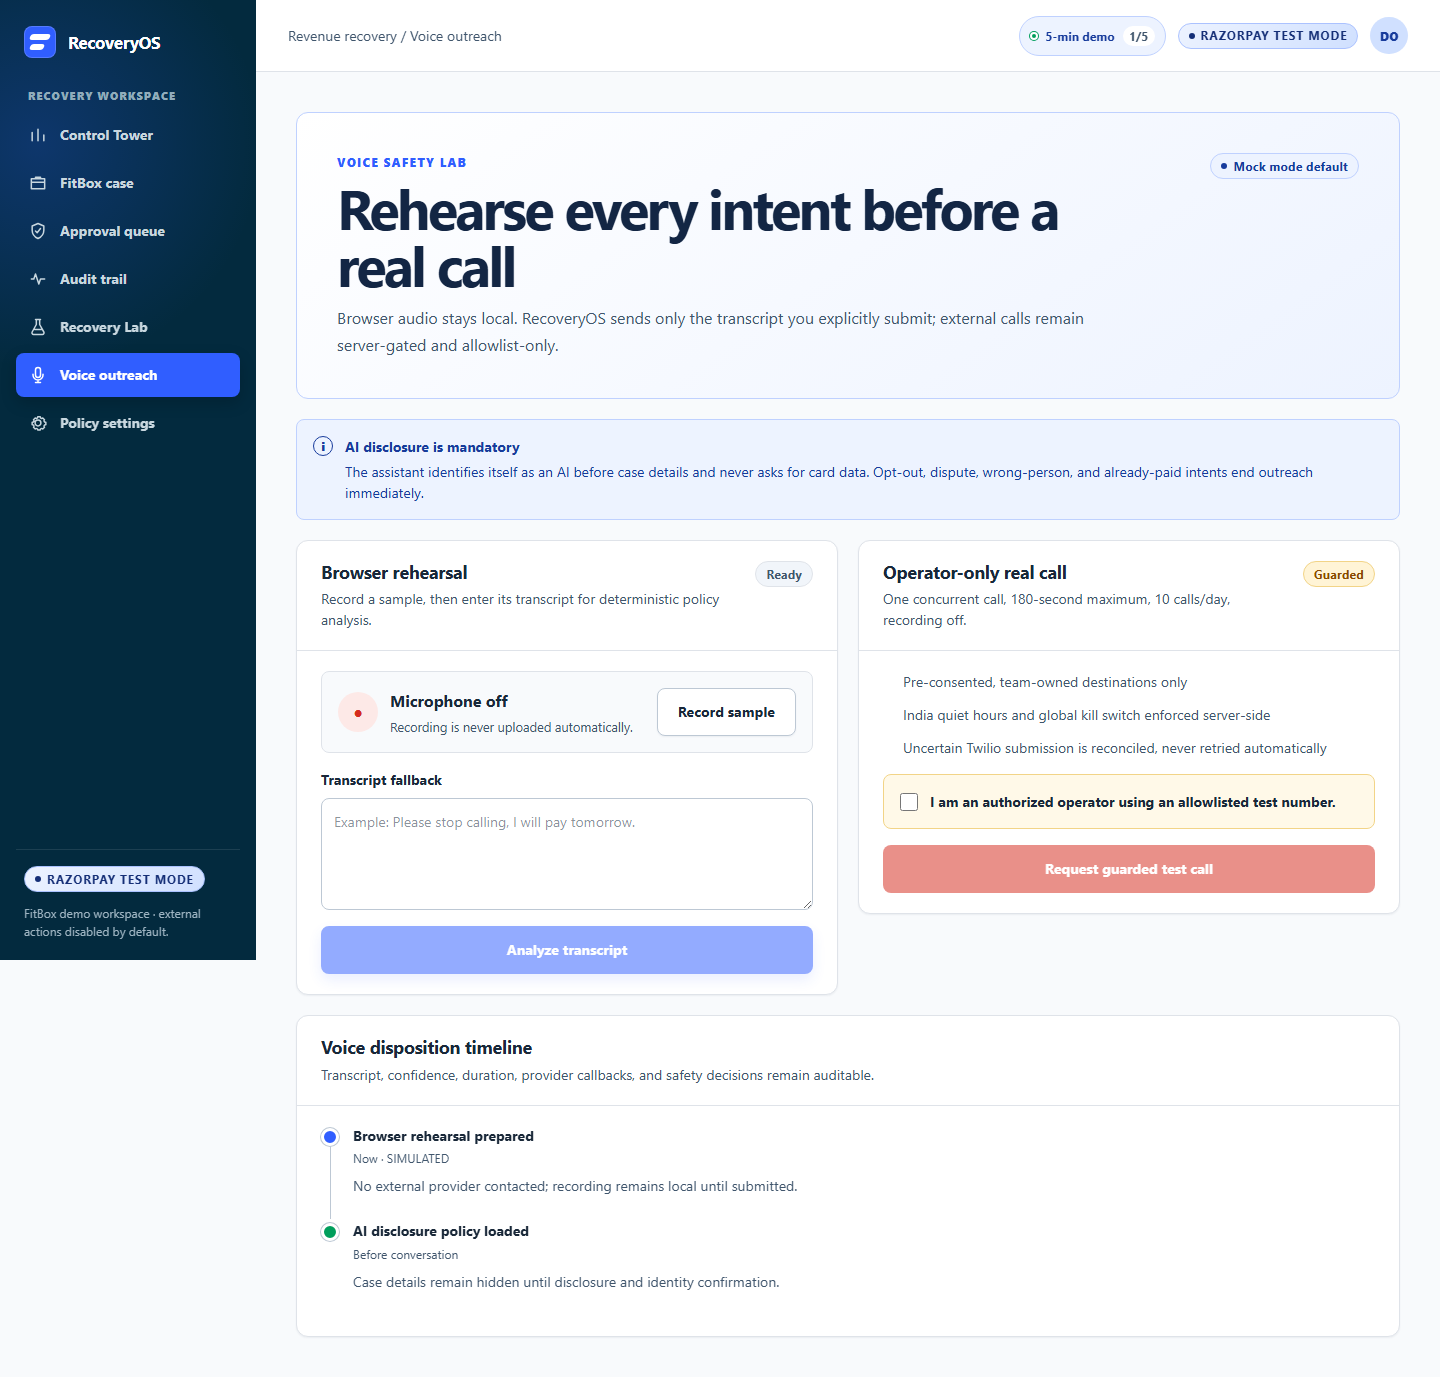
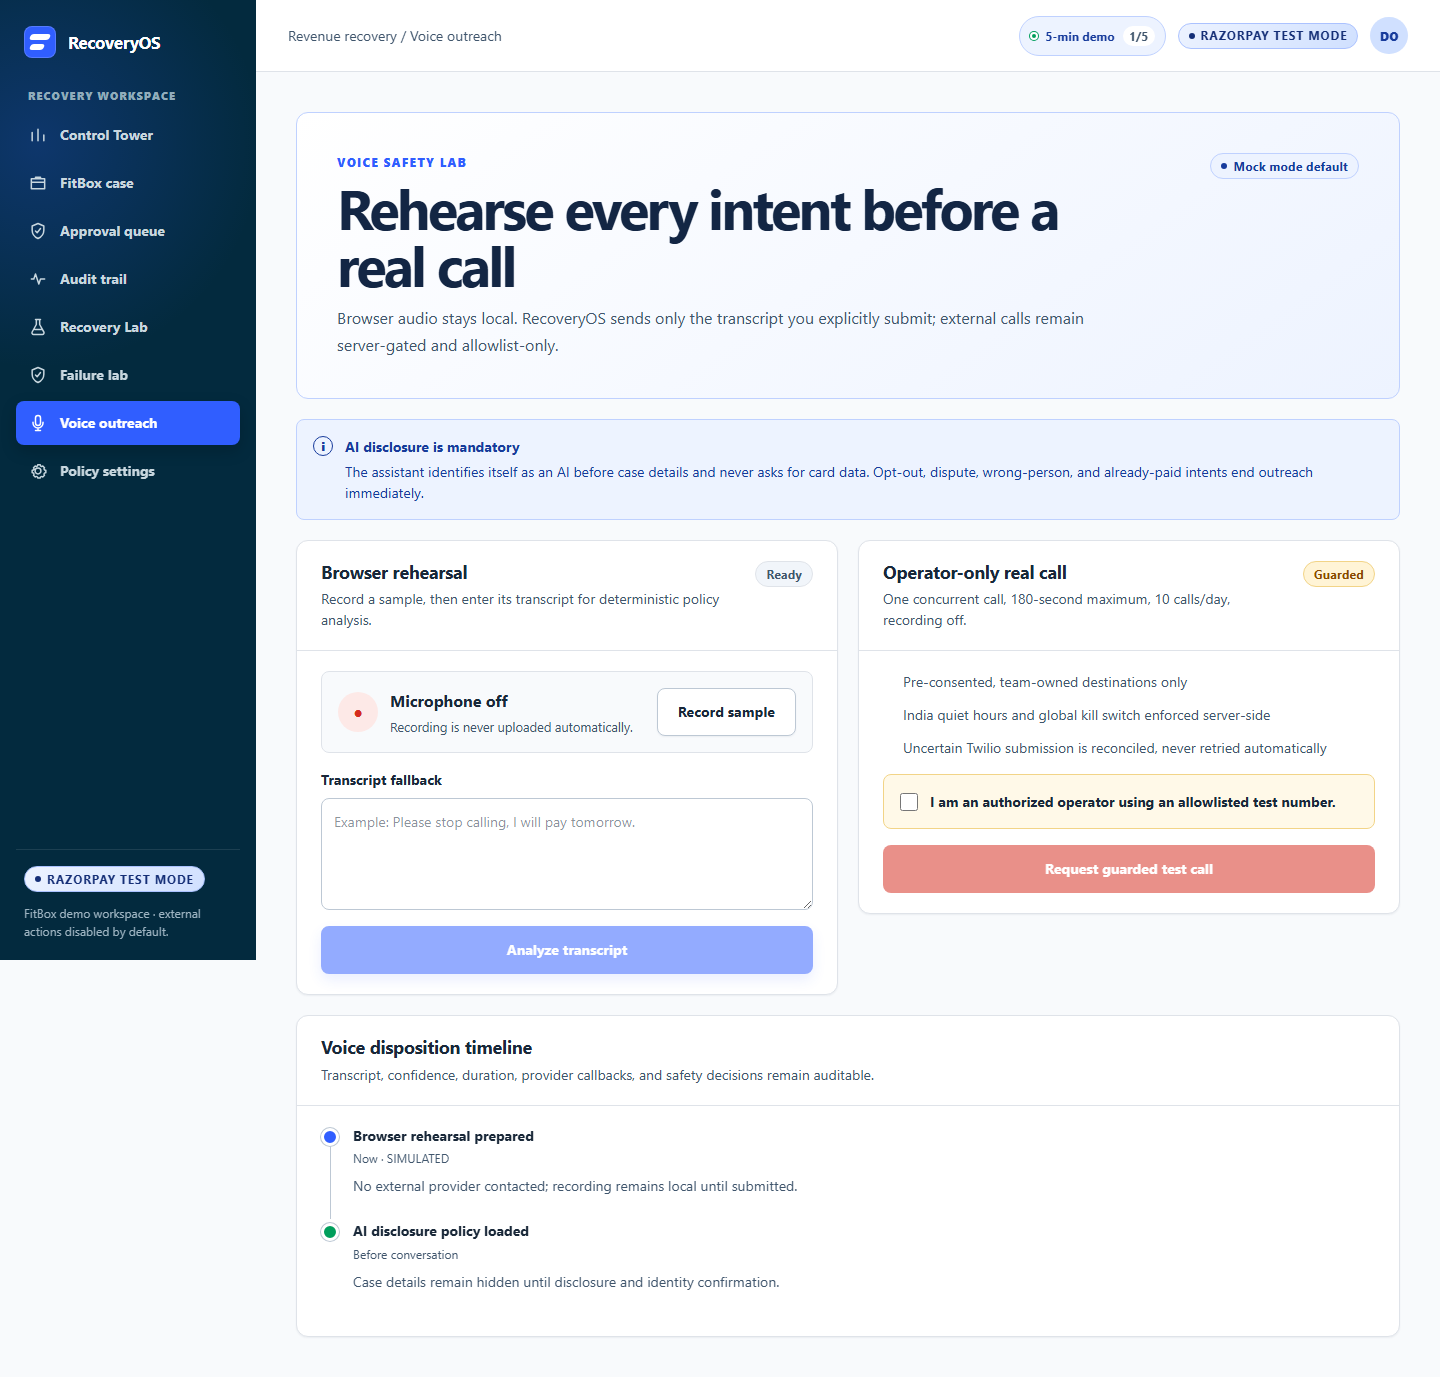
test(release): isolate suites and align hardened fixtures

Changed region(s): [[0.0, 0.2498, 0.1875, 0.3435]]

diff --git a/apps/web/e2e/support/fixtures.ts b/apps/web/e2e/support/fixtures.ts
@@ -19,6 +19,16 @@ export async function openMockDashboard(page: Page): Promise<void> {
 }
 
 export async function mockMerchantMutations(page: Page): Promise<void> {
+  await page.route("**/__e2e-api/v1/operator/session", async (route) => {
+    await route.fulfill({
+      contentType: "application/json",
+      body: JSON.stringify({
+        csrf_token: "e2e-fixture-csrf-token",
+        expires_at_epoch: 2_000_000_000,
+        operator: "demo@recoveryos.dev",
+      }),
+    });
+  });
   await page.route(
     "**/__e2e-api/v1/recovery-cases/*/commands",
     async (route) => {

diff --git a/apps/web/e2e/playwright.config.ts b/apps/web/e2e/playwright.config.ts
@@ -6,7 +6,7 @@ const baseURL = `http://127.0.0.1:${port}`;
 export default defineConfig({
   testDir: ".",
   testMatch: "**/*.pw.ts",
-  testIgnore: ["**/support/**"],
+  testIgnore: ["**/support/**", "**/*.service.pw.ts"],
   outputDir: "test-results",
   snapshotPathTemplate: "{testDir}/snapshots/{projectName}/{arg}{ext}",
   fullyParallel: false,

diff --git a/services/worker/tests/test_payment_surface_runtime.py b/services/worker/tests/test_payment_surface_runtime.py
@@ -16,9 +16,13 @@ from sqlalchemy.ext.asyncio import (
 from sqlalchemy.pool import StaticPool
 
 from services.api.app.db import Base
-from services.api.app.domain.enums import ActionStatus, PaymentSurfaceType
+from services.api.app.domain.enums import ActionStatus, PaymentSurfaceType, PolicyDisposition
 from services.api.app.integrations.razorpay.errors import RazorpayUncertainSubmissionError
-from services.api.app.models import Merchant, RecoveryActionRecord  # noqa: F401
+from services.api.app.models import (  # noqa: F401
+    Merchant,
+    PolicyDecisionRecord,
+    RecoveryActionRecord,
+)
 from services.api.app.providers.contracts import (
     OpenPaymentSurfaceRequest,
     PaymentSnapshot,
@@ -149,6 +153,10 @@ async def _seed_standard_action(
             select(RecoveryActionRecord).where(RecoveryActionRecord.case_id == FITBOX_CASE_ID)
         )
         assert action is not None
+        policy = await session.scalar(
+            select(PolicyDecisionRecord).where(PolicyDecisionRecord.action_id == action.id)
+        )
+        assert policy is not None
         action.payment_surface_type = PaymentSurfaceType.STANDARD_PAYMENT_LINK
         action.status = status
         action.idempotency_key = _command().idempotency_key
@@ -156,6 +164,8 @@ async def _seed_standard_action(
         action.customer_url = (
             f"https://rzp.test/i/{external_reference}" if external_reference else None
         )
+        policy.disposition = PolicyDisposition.ALLOW
+        policy.decision_code = "TEST_STANDARD_PAYMENT_LINK_ALLOWED"
         await session.commit()
         return action
 
